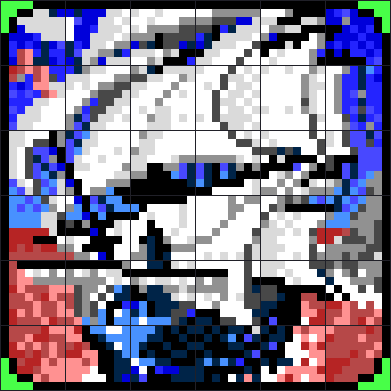
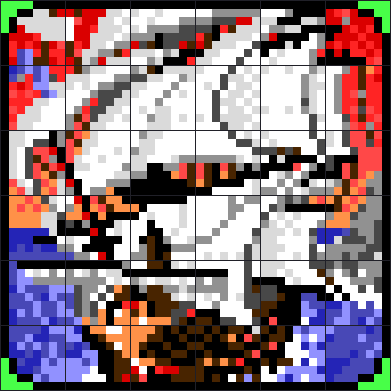
Regenerate #005 PNGs with corrected colour order + systematic tile/sprite sheets

diff --git a/disasm/graphics/inventory.md b/disasm/graphics/inventory.md
@@ -126,3 +126,37 @@ Render any record with:
 
 Full 31-palette dump: read ROM `0x0CC9D8 + n*32`, 16 big-endian words
 each. Word format `0BBB0GGG0RRR0`; RGB = channel × 255/7.
+
+## Regenerated 2026-11-10 (corrected colour order) + systematic sheets
+
+The #005 PNGs were rendered with R and B swapped (the old
+`md_word_to_rgb`). `tools/render_tiles.py` was fixed in #016 to
+`r=(w>>1)&7, g=(w>>5)&7, b=(w>>9)&7` (proven by the minimal VDP test
+ROM: CRAM[1]=`0x0E00` displays pure blue). The seven #005 PNGs
+(`font_rec00_pal0`, `font_rec00_pal10`, `terrain_rec06_pal1`,
+`logo_rec12_pal1`, `portrait_b86ae_rec00/01/05`) were re-rendered with
+the fixed renderer, same parameters as the originals (font: 16 cols,
+scale 6; terrain/logo: 32 cols, scale 4; portraits: 6 cols, scale 8).
+Verified: same dimensions as the originals, and every palette pixel
+is exactly the R/B swap of the original (background fill unchanged);
+the font's index-1 colour is now blue `(0,0,182)`, matching the live
+logo screen, and the rec 0 portrait is warm browns/reds (skin tones)
+with no blue-dominant colours.
+
+Systematic sheets (same renderer, corrected palette):
+- `$96120` tile records: `recNN_pal1.png` (16 cols, scale 8, master
+  pal 1) — all 45 tile records (0–21, 27–31, 33–43, 45–47, 53, 56,
+  58, 60). The 17 tilemap/text records (22–26, 32, 44, 48–52, 54,
+  55, 57, 59, 61) are NOT rendered as tiles (declen is not a
+  multiple of 32). Pal 1 is the default placeholder; the true
+  per-record palettes remain open (#005).
+- `$B86AE` records: `spriteNN.png` (6 cols, scale 8, each record's
+  own embedded palette) — all 90 records, 36 tiles each (6×6).
+- Cross-check: `rec00_pal1.png`, `rec06_pal1.png` and `sprite00.png`
+  are byte-identical to the #016 `016_font_rec00_full.png`,
+  `016_terrain_rec06_full.png` and `016_portrait_b86ae_rec00_full.png`
+  (same parameters), so the systematic set and the #016 renders agree.
+- Render commands: `python3 tools/render_tiles.py record <N>
+  --palette 1 --cols 16 --scale 8 --out disasm/graphics/recNN_pal1.png`
+  and `python3 tools/render_tiles.py sprite <N> --cols 6 --scale 8
+  --out disasm/graphics/spriteNN.png`.

diff --git a/issues/016-tiles-sprites-palettes.md b/issues/016-tiles-sprites-palettes.md
@@ -50,5 +50,19 @@ Turn the provisional tile region into visible pictures.
   `test_tiles4_harness.s` (hooks `$D292`, not yet run). Minimal VDP
   test ROM: `.scratch016/vdp_test.s`/`.gen`.
 - Open from #016: textbook bitplanar re-verification (§10.1 caveat);
-  pal 11/13 sea-colour re-check vs a live world-map CRAM snapshot;
-  regen the #005 PNGs with the corrected palette.
+  pal 11/13 sea-colour re-check vs a live world-map CRAM snapshot.
+  Note (2026-11-10): the `disasm/maps/` PNGs share the #005 R/B bug —
+  `world_map_rec09_pal11.png`'s top colour `(109,109,218)` is the
+  OLD-order decoding of pal 11 word `0x066C` (corrected: `(218,109,109)`
+  reddish-brown), so the blue sea in that PNG is a rendering artefact, not the
+  ROM's colour. `tools/decode_map.py` imports the now-fixed
+  `get_palette` from `render_tiles.py`, so re-rendering the maps would
+  use the corrected order — but the sea's true colour still needs the
+  live CRAM snapshot to settle (pal 11 corrected reads browns/reds,
+  which would look wrong for a sea; the palette itself may be wrong).
+- Done 2026-11-10: the #005 PNGs were regenerated with the corrected
+  palette (verified pixel-exact as the R/B swap of the originals),
+  and systematic sheets were rendered for every tile record:
+  `disasm/graphics/recNN_pal1.png` (45 `$96120` tile records, pal 1)
+  and `disasm/graphics/spriteNN.png` (90 `$B86AE` records, embedded
+  palettes). See `disasm/graphics/inventory.md`.

diff --git a/issues/005-graphics.md b/issues/005-graphics.md
@@ -42,6 +42,15 @@ Find how tiles, sprites, and palettes are stored, and whether they are compresse
   (48×48 px). `portrait_b86ae_rec05.png` is a non-face textured
   graphic. Renderer: `tools/render_tiles.py` (`record` / `sprite` /
   `raw` modes, `--layout`).
+- **Regenerated 2026-11-10 with the corrected colour order** (see
+  `disasm/graphics/inventory.md`): the seven PNGs above were
+  re-rendered with the fixed `render_tiles.py` (same parameters;
+  verified pixel-exact as the R/B swap of the originals on palette
+  pixels). Systematic sheets added the same day:
+  `disasm/graphics/recNN_pal1.png` (all 45 `$96120` tile records,
+  pal 1, 16 cols, scale 8) and `disasm/graphics/spriteNN.png` (all
+  90 `$B86AE` records, embedded palettes, 6 cols, scale 8). The 17
+  tilemap/text `$96120` records are not rendered as tiles.
 - Renders cross-checked against BlastEm's VRAM debugger on the live
   logo screen (same font renders correctly there).
 
